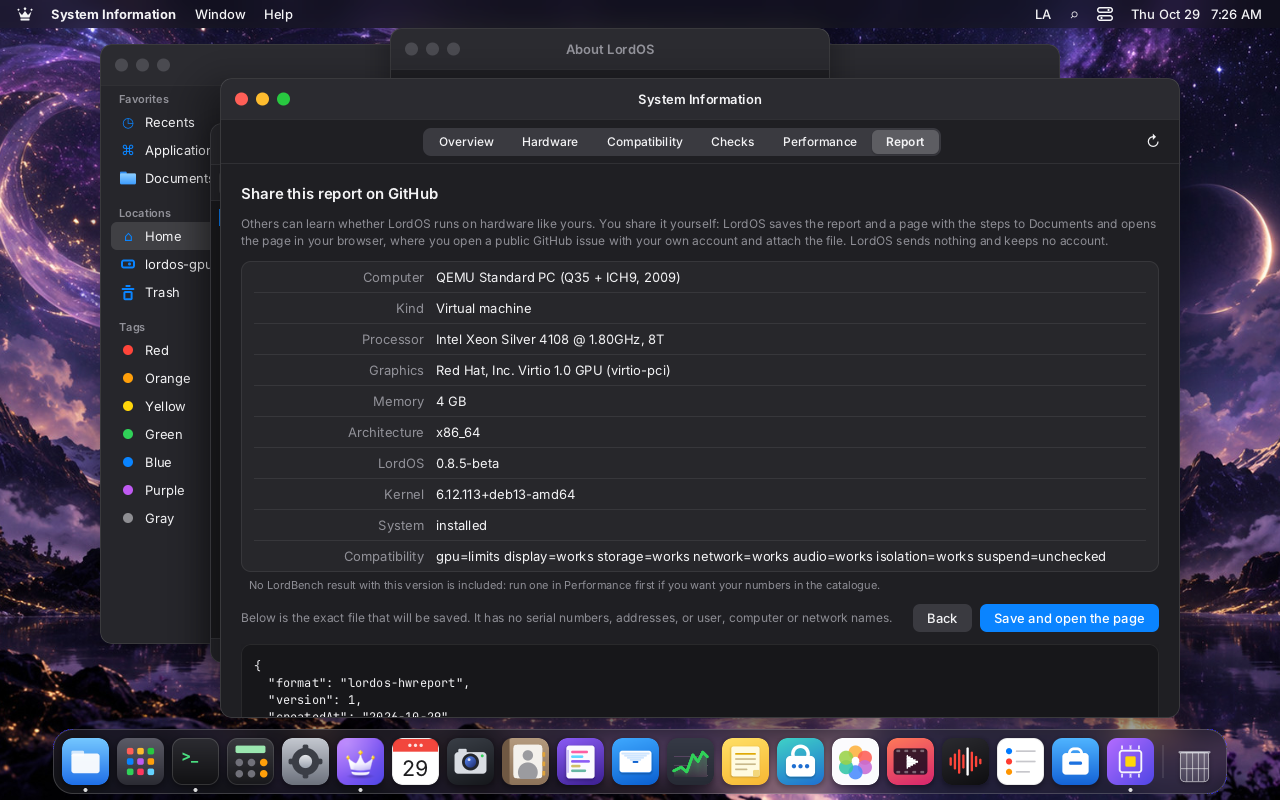
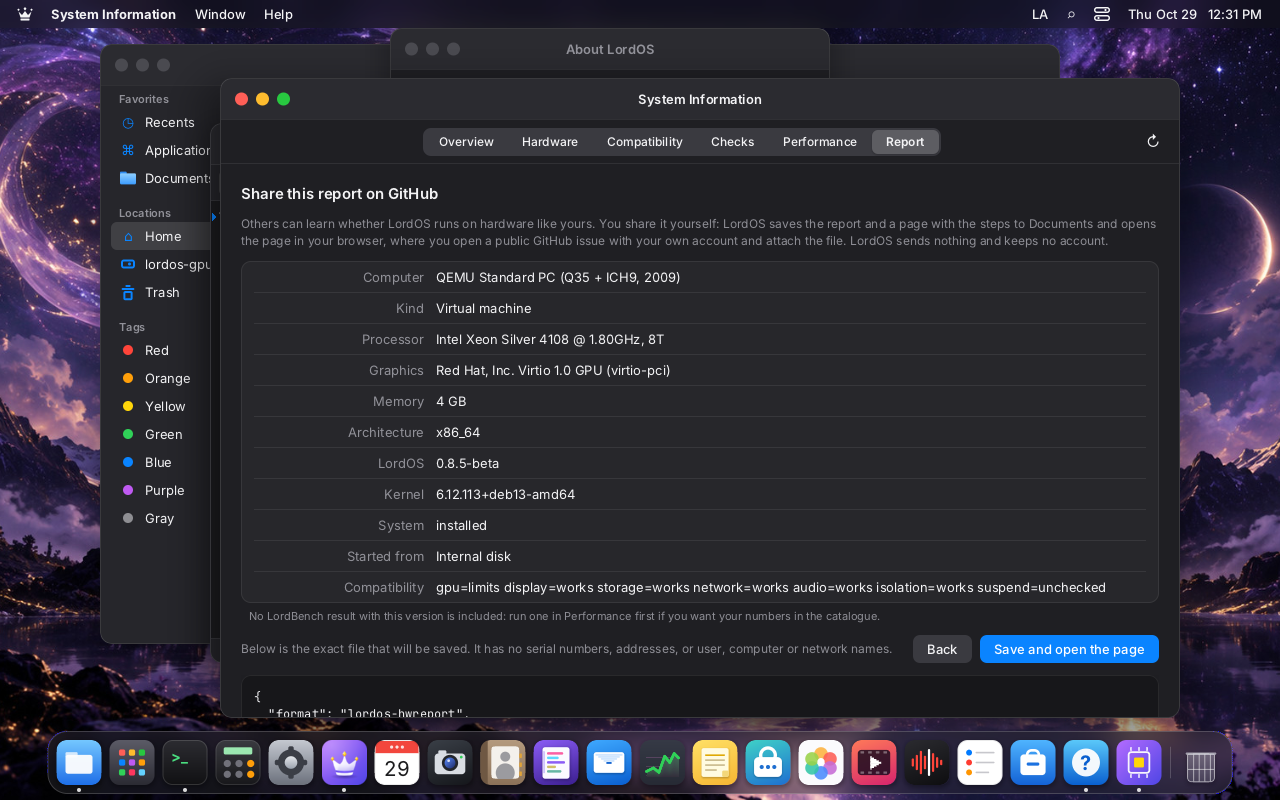
Docs for the 0.8.7 boot medium, the snapshot-update design and the real-session Share on GitHub check: BENCHMARK (Built so far: boot medium, how it is detected; Newer snapshots between releases: five options, a separate lordos-hwdata package in the signed APT repository recommended, not implemented 

Changed region(s): [[0.0312, 0.8438, 0.9688, 1.0], [0.1875, 0.6875, 0.9062, 0.8438], [0.8125, 0.0, 0.9688, 0.0312]]

diff --git a/docs/BENCHMARK.md b/docs/BENCHMARK.md
@@ -618,16 +618,33 @@ reference.
   catalogue read the same file. The validator is our own subset of JSON Schema, `tools/hwreport/jsonschema.mjs`,
   with no dependency (the repository has no JSON Schema validator); a keyword it doesn't implement makes it throw.
 - **Live session flag**: the collector now records `software.live` (live-boot's `/run/live`, as LordBench already
-  did), and a shared report is `live: true` if either says so. The boot medium is not collected yet, so it is not
-  in the report; the rest of "From the live USB" is not built.
+  did), and a shared report is `live: true` if either says so.
+- **Boot medium** (2026-10-29): the collector also records what the system started from, as a class only
+  (`software.bootMedium`: `internal`, `usb`, `sd`, `emmc`, `optical`, `network`, or `""` when it can't tell), a USB
+  medium's link speed (`bootLinkMbps`, from the USB device's `speed`) and whether a live session was copied to memory
+  (`bootToRam`, the `toram` boot option). How (`collect_boot` in `sysreport/sysreport.c`, no root, world-readable
+  files only): the mount under `/` (installed) or live-boot's `/run/live/medium` (live) is found in
+  `/proc/self/mountinfo` (the last line for that mount point); an NFS or SMB file system is `network`; otherwise its
+  `major:minor` is followed through `/sys/dev/block` (a link that climbs out of `/sys/devices` is refused), from a
+  partition to its disk, and through device mapper or RAID `slaves` (LUKS, LVM; at most 4 layers); btrfs's anonymous
+  `0:N` device is replaced by the block device its source names. The disk's sysfs path decides: `sr*` is `optical`,
+  a path through a USB controller is `usb`, `nbd*` or an iSCSI session is `network`, an MMC card whose `type` is `SD`
+  or `MMC` is `sd` or `emmc` (unknown type: `""`, not a guess), loop and RAM disks are `""`, everything else
+  (SATA, NVMe, virtio, SCSI) is `internal`. A live session with no medium mounted that was fetched over the network
+  (`fetch=`, `netboot=`) is `network`. The kernel command line is only searched for those whole words, never kept.
+  Nothing else leaves the function: no device name, model, serial, mount point or path. The schema lists only the
+  classes, the speed (1–100,000) and the flag; the share preview, the issue summary (`boot: usb, 5000 Mbps`), the
+  workflow's comment and a `boot:<class>` label show it; a copy to memory on an installed system, or a link speed on
+  anything but USB, is flagged as implausible. System Information shows it in Software (*Started from*) and
+  `lordos-sysreport report` in the Overview (*Started*). VM 116 (ext4 on a SCSI disk) reports `internal`.
 - **Share on GitHub** (Report → *Share on GitHub…*, `apps/sysinfo/share.js`): a preview of the summary and of the
   exact JSON first, then on every click (nothing remembered) the app writes `lordos-hwreport-<date>.json` and
   `.html` to Documents (never over an existing file) and opens the page with `lord.apps.launchWith('', path)`. The
   page is self-contained (no scripts, a CSP of `default-src 'none'`, light and dark, right to left for RTL
   languages, every value escaped), says in plain words what is shared and what never is, shows the summary, the
   steps, and one link to GitHub's new-issue form with the `hardware-report` template, the title, the version and
-  the short summary in the URL (machine, kind, CPU, GPU, memory, architecture, versions, live, LordBench mode and
-  the Compatibility states; at most 600 characters). The full JSON is attached by the user. LordOS sends nothing
+  the short summary in the URL (machine, kind, CPU, GPU, memory, architecture, versions, live, the boot medium's class, LordBench mode
+  and the Compatibility states; at most 600 characters). The full JSON is attached by the user. LordOS sends nothing
   and holds no token.
 - **The issue form and its workflow**: `.github/ISSUE_TEMPLATE/hardware-report.yml` (label `hardware-report`, the
   `lordos` and `summary` fields the link fills, the file box, two confirmations) and
@@ -643,7 +660,7 @@ reference.
   positive, versions, architecture, live or thread counts that disagree, a future date, memory out of range);
   then comments once (updated on every edit) with report values only inside code spans, and labels the issue from
   fixed lists only: `report:valid|check|invalid|missing`, `kind:vm|board|laptop|server|desktop`,
-  `gpu:<vendor>`, `cpu:<vendor>`, `live` or `installed`. Permissions: `contents: read` (to check out the script
+  `gpu:<vendor>`, `cpu:<vendor>`, `live` or `installed`, and `boot:<class>` when the boot medium is known. Permissions: `contents: read` (to check out the script
   and the schema, sparse) and `issues: write`; the checkout action is pinned by commit, without persisted
   credentials. Workflows for `issues` events run from the default branch, so it takes effect when this is merged.
 - **The catalogue**: `tools/hwreport/catalog.mjs` reads the accepted reports in `web/content/hardware/reports/`
@@ -662,7 +679,8 @@ reference.
   the release key (Ed25519, the same format as `code-manifest.sig`; the key never leaves it). It ships
   in the `lordos` package (`tools/iso/mkdeb.sh`; a release build refuses an unsigned one) and so updates through the
   signed APT repository. **Deviation from the design above:** it is not downloaded on its own with the package
-  engine's checks; that remains possible later without changing the format or the verification.
+  engine's checks; that remains possible later without changing the format or the verification (see "Newer
+  snapshots between releases" below: a separate `lordos-hwdata` package is the recommendation).
   `lord.sysinfo.community()` (`ui/js_hw.c`, no arguments, no path from JS) reads the two files from
   `<assets>/hwreport/` without following links (`sysreport/hwsnap.c`), verifies the signature with the key the
   build trusts before parsing anything, checks the structure (format, version, at most 1 MB and 20,000 entries,
@@ -671,31 +689,102 @@ reference.
   what the snapshot says about this machine's devices with the same LordOS version (x.y.z), marked *Community*, or
   as a reference machine when only those reported it, and a footer with the snapshot's date and count, or why
   there is no community data.
-- **Tests**: `server/tests/hwreport_test.mjs` (125 checks: the schema with good reports and 22 bad ones, what the
+- **Tests**: `server/tests/hwreport_test.mjs` (138 checks: the schema with good reports and 22 bad ones, what the
   built report leaves out of a report full of identifying values, the summary and the link, the page's escaping
   and direction, attachment links, the download's limits with a fake fetch, parsing limits, the privacy scan,
   plausibility, labels, the comment's escaping, the catalogue, the snapshot being the one the reports give, and the
   community matching), in `run_suites.sh`; `build/hwsnap-test` (43 checks: signature before parsing, another key,
   one byte changed, malformed signatures, 19 malformed snapshots, limits, links refused, and the snapshot the
   builder wrote signed with a test key passing the C checks), in `make test`; `build/sysreport-test` checks the
-  live flag.
+  live flag and the boot medium on 23 fake trees (NVMe, USB 3 and USB 2 behind a hub, a copy to memory with and
+  without the medium, `notoram`, SD, eMMC, an unknown MMC card, LUKS on NVMe, LVM on LUKS on USB, a device mapper
+  loop, btrfs, stacked mounts, a DVD, NFS, iSCSI, NBD, a live system fetched over the network, virtio, a loop
+  device, a link that climbs out of `/sys`, a USB speed that isn't a number), each also checked for device names,
+  serials, the mount point and the command line in the JSON and the Markdown.
 - **Checked on VM 116** in an isolated headless session, with `lord-server` built for a throwaway test key
   (`CODE_PUBKEY`) and the snapshot signed by `sign-hwsnapshot.sh` with that key: the Compatibility panel shows the
   reference machine's data for the virtio GPU, the network and the sound card; the same snapshot with one count
   changed is refused ("the signature didn't verify") and nothing is shown. Share on GitHub wrote both files; the
   JSON passed `validate.mjs` (`report:valid`, `kind:vm`, `gpu:virtual`, `cpu:intel`, `installed`). The headless
   session has no browser, so it said where the page is instead of opening it.
+- **Opening the page, checked on VM 116** (2026-10-29, isolated headless session of this branch, Chromium 156 from
+  Debian installed on the VM): Share on GitHub wrote `lordos-hwreport-2026-10-29.json` and `.html` to Documents and
+  `lord.apps.launchWith('', path)` opened the page in the browser, inside the session, from the user's default for
+  `text/html`; the page showed the summary (with *Started from: Internal disk*), the steps and the link to the
+  `hardware-report` form, and the JSON passed `validate.mjs` (`report:valid`, `kind:vm`, `gpu:virtual`, `cpu:intel`,
+  `installed`, `boot:internal`). What it took on that VM, and what it says about real systems:
+  - **A fresh account with no default browser:** `defaults_lookup` (`hw/defaults.c`) only reads `mimeapps.list` and
+    `defaults.list` files, and this VM has none for `text/html` (Debian's Chromium doesn't write one, and without
+    `desktop-file-utils` there is no `mimeinfo.cache`), so `launchWith('', …)` refused and the app said where the
+    page was ("Open … with your browser to go on") — the fallback works. Choosing the browser in Settings → Default
+    Apps (which writes `~/.config/mimeapps.list`) is what makes it open. Falling back to an installed app that
+    declares the type, as the XDG spec allows, is left for the maintainer to decide (it changes Default Apps for
+    every type, not only this one).
+  - **Chromium needs X11 here:** Debian's Chromium starts on X11 unless told otherwise, and VM 116 has no `xwayland`
+    package, so with the stock `chromium.desktop` it exited ("Missing X server"). A system with `xwayland` (the
+    Xwayland launcher gives launched apps `DISPLAY`) runs it as is. On the VM the test used a user entry in
+    `~/.local/share/applications` with `--ozone-platform=wayland`, chosen as the default for `text/html`.
+  - **The test session's environment:** the isolated session must not set `LORDOS_SESSIOND` at all: with it set (even
+    empty) the launcher, which can't place the app in its own scope outside a real session, refuses to start it
+    (fail closed, as designed: `apps.log` said "could not place the app in its own scope: not launched").
+
+![The page opened in the browser by Share on GitHub](hwreport-browser.png)
 
 ![Compatibility with community data](hwreport-compat.png)
 
 ![Share on GitHub](hwreport-share.png)
 
-![The page that opens in the browser](hwreport-page.png)
+![The whole page (rendered outside the session, before the boot medium row)](hwreport-page.png)
+
+### Newer snapshots between releases (design, for the maintainer's approval)
+
+Today the signed snapshot ships inside the `lordos` package, so the Compatibility panel only learns about new
+reports when LordOS itself is released. The goal is a newer snapshot between releases **without giving
+`lord-server` or any helper a new network power** (AGENTS.md: no generic network, the Store's download child and
+`lord-tls` only fetch packages, `lord-fetch` only fetches blocklists). The options:
+
+| | How | New network code | Verdict |
+|---|---|---|---|
+| A | Keep it in `lordos` (today) | none | Updates only with a release |
+| B | **A separate small package, `lordos-hwdata`**, in the signed APT repository | none: the existing package engine | **Recommended** |
+| C | `lord-server` downloads `snapshot.json` from lordos.org through the Store's download child and `lord-tls` | a new kind of download in the package engine (a URL that is not a package, a new admin action or engine call) | Not recommended: a new network job to review for one file |
+| D | `lord-fetch` downloads it next to the blocklists | a second job for `lord-fetch`, which AGENTS.md forbids | Rejected |
+| E | The user downloads it from lordos.org/hardware and opens it in System Information | none (a file the user picks, verified with the same key) | Possible later as a complement for machines that never update; clumsy as the main path |
+
+**B, in detail.** `lordos-hwdata` is an `Architecture: all` package holding only `snapshot.json` and
+`snapshot.json.sig` at the same place `lord.sysinfo.community()` already reads (`<assets>/hwreport/`), with a version
+of its own (the snapshot's date, `YYYY.MM.DD`, plus `.N` for a second one on the same day). The `lordos` package
+stops shipping the two files and `Depends: lordos-hwdata`; no released `lordos` has ever shipped them (they are new
+in 0.8.7), so no `Replaces`/`Breaks` dance is needed. Between releases the maintainer runs
+`tools/release/sign-hwsnapshot.sh` (as now), builds the package (a short `tools/iso/mkdeb-hwdata.sh`) and adds it to
+the repository with `tools/release/apt-repo.sh build live <deb>` and `publish`, exactly like a `lordos` build. On
+every system the daily update check (`pkg-update`, `updates.autoCheck`) sees one available update and says so once,
+and Store → Updates → *Update all* (`pkg-upgrade`) installs it; `lord.sysinfo.community()` reads the files again on
+every call, so the panel shows the new data without restarting the session. Machines without internet get it from a
+`file:` copy of the repository, as any update.
+
+Why this is safe: nothing new runs or connects. The snapshot is checked twice: the repository's `InRelease` (the
+APT archive key, by our own package engine) and then the snapshot's own Ed25519 signature with the release key
+(`sysreport/hwsnap.c`, before any parsing), so a package from anywhere else still can't change what the panel
+shows. Rolling back to an older snapshot needs a downgrade, which the engine never does on its own. The cost:
+one more package in the repository and in the release steps (`RELEASING.md`), the ISO and the Raspberry Pi image
+builds installing it next to `lordos` (`tools/iso/build.sh`, `tools/rpi/build-img.sh`), and a rule for the format:
+while any supported `lordos` reads format 1, `lordos-hwdata` keeps writing format 1; a format 2 needs
+`Breaks: lordos (<< <first version that reads it>)`. An older `lordos` with a newer snapshot works, since entries
+are per LordOS version and it shows only its own.
+
+**Not implemented on this branch:** it changes the release steps on the maintainer's machine, adds a package name to
+the published repository and changes the ISO and Pi image builds, none of which can be tested end to end here
+(the Pi image is built on the Pi). Once approved, the work is: `mkdeb-hwdata.sh`, the `Depends` and the removal from
+`mkdeb.sh`, installing it in the two image builds, `RELEASING.md` and `UPDATES.md`, and a staging test on a VM
+(`apt-repo.sh build staging`): publish a newer `lordos-hwdata`, see the notification, update, see the panel change.
 
 Left for 0.8.7: creating the labels in the repository (the template's `hardware-report` label must exist for the
 form to apply it), the first real community reports, a captured Raspberry Pi 5 report to replace the documented
-one, the boot medium of a live session and the rest of "From the live USB", downloading a newer snapshot between
-releases, and opening the page on a real session with a browser.
+one, the rest of "From the live USB" (the boot menu entry, live references, the overlay's size), the separate
+`lordos-hwdata` package above once approved, and deciding whether Default Apps should fall back to an installed app
+that declares a type when the user chose none (so a fresh account's Share on GitHub opens the page without a visit
+to Settings).
 
 ## From the live USB, without installing
 
@@ -707,7 +796,8 @@ before installing.
 - **A boot menu entry**, *Check this computer*, starts the live session straight into System
   Information (0.8.5) and its Performance tab (0.8.6). The normal live session has it in the Dock.
 - **The report says it was live**: boot medium (USB, its link speed), the overlay in RAM, no
-  persistence. Live and installed results are kept apart in comparisons and in the catalogue.
+  persistence. (Built in 0.8.7: the live flag, the boot medium's class, a USB link speed and the copy to memory;
+  the overlay's size is not.) Live and installed results are kept apart in comparisons and in the catalogue.
 - **Different references where live changes the numbers**: idle memory is compared with the
   paper's live figure (465 MB) and the overlay's size is subtracted and shown; boot time includes
   reading from the stick and is reported, not judged.

diff --git a/CHANGELOG.md b/CHANGELOG.md
@@ -61,6 +61,50 @@ of the matching [GitHub release](https://github.com/lordbasex/LordOS/releases), 
     `make test` passing (23 suites, 0 failed); checked there in an isolated headless session with a test-key build
     (community rows shown, a tampered snapshot refused, both share files written and the JSON valid).
 
+- **The boot medium in the hardware report** (2026-10-29; `docs/BENCHMARK.md`, "Built so far" under 0.8.7):
+  - **Collector:** `collect_boot` in `server/src/sysreport/sysreport.c` records `software.bootMedium` (`internal`,
+    `usb`, `sd`, `emmc`, `optical`, `network`, or `""` when unknown), `bootLinkMbps` (a USB medium's link speed, from
+    the USB device's `speed`; `null` otherwise) and `bootToRam` (a live session started with `toram`). No root and
+    world-readable files only: the mount under `/` (or live-boot's `/run/live/medium` in a live session) from
+    `/proc/self/mountinfo`, NFS/SMB as `network`, otherwise its `major:minor` through `/sys/dev/block` (links that
+    leave `/sys/devices` refused), partition to disk, device mapper and RAID `slaves` (at most 4 layers), btrfs's
+    anonymous device through its source; then the disk's sysfs path: `sr*` optical, a USB controller in the path
+    `usb`, NBD or an iSCSI session `network`, an MMC card by its `type` (`SD`/`MMC`; unknown is `""`), loop and RAM
+    disks `""`, the rest `internal`. A live session fetched over the network (`fetch=`, `netboot=`) with no medium
+    mounted is `network`. The kernel command line is only searched for those words. Only the class and the speed
+    leave the collector: never a device name, model, serial, mount point or path. In `lord.sysinfo.report()`,
+    `lordos-sysreport report --json` and, as *Started*, in its Markdown Overview.
+  - **Report and workflow:** the schema (`apps/sysinfo/hwreport.schema.json`) lists only the classes, a speed of
+    1–100,000 and the flag; `share.js` adds a `boot` row to the issue summary (`usb, 5000 Mbps`, `toram`);
+    `tools/hwreport/lib.mjs` adds a `boot:<class>` label from the fixed list, a *started from* note in the comment,
+    and flags a copy to memory on an installed system or a link speed on anything but USB (`boot-mismatch`).
+  - **App:** System Information → Software → *Started from* and the share preview's row (internal disk, USB drive,
+    SD card, built-in flash memory, DVD or CD, network; the speed; "copied to memory"); the page's "What is shared"
+    says the kind of drive is shared, never its name. en, es and pt.
+  - **Tests:** `build/sysreport-test` builds 23 fake trees (NVMe, USB 3, USB 2 behind a hub, `toram` with and without
+    the medium, `notoram`, SD, eMMC, an unknown MMC card, LUKS on NVMe, LVM on LUKS on USB, a device mapper loop,
+    btrfs, stacked mounts, DVD, NFS, iSCSI, NBD, a fetched live system, virtio, a loop device, an escaping link, a
+    bad USB speed) and checks the class, the speed, the flag, the Markdown row, and that no device name, serial,
+    mount point or command line reaches the JSON or the Markdown; `server/tests/hwreport_test.mjs` grows to 138
+    checks (the schema refuses a device name, a mount point, a text or zero speed and a text flag; the built report
+    keeps the class and drops an extra device field; the summary row; the label; the plausibility flags; the comment).
+    VM 116 reports `internal` (ext4 on its SCSI disk).
+- **Share on GitHub checked in a real session with a browser** (2026-10-29, VM 116, isolated headless session of the
+  branch, Debian's Chromium 156): the report and the page landed in Documents and `lord.apps.launchWith('', path)`
+  opened the page in the browser inside the session (`docs/hwreport-browser.png`); the JSON passed `validate.mjs`
+  (`report:valid … installed, boot:internal`) and the link carried only the title, version and summary. Found on the
+  way (documented in `docs/BENCHMARK.md`, nothing changed in the code): a fresh account has no `text/html` default
+  unless one is chosen in Settings → Default Apps (`defaults_lookup` reads only `mimeapps.list`/`defaults.list`;
+  the app then says where the page is), Debian's Chromium needs `xwayland` (absent on VM 116) unless started with
+  `--ozone-platform=wayland`, and an isolated test session must leave `LORDOS_SESSIOND` unset or the launcher fails
+  closed.
+- **Newer hardware snapshots between releases: design** (2026-10-29; `docs/BENCHMARK.md`, "Newer snapshots between
+  releases"): five options compared; the recommendation is a separate `Architecture: all` package, `lordos-hwdata`,
+  in the signed APT repository, which `lordos` depends on, updated between releases through the existing daily check
+  and Store → Updates, with the snapshot's own Ed25519 signature still checked in C, so no component gets a new
+  network power. Not implemented: it changes the release steps, the published repository and the ISO and Pi image
+  builds, and waits for the maintainer's approval.
+
 ### Release
 
 - **Docs** (2026-10-28): `FANS.md` no longer says the Cooling fans turn in this build (the `transform` key the

diff --git a/docs/ROADMAP.md b/docs/ROADMAP.md
@@ -771,8 +771,14 @@ desktop fell to 24 fps under an all-core load:
   reads as a signed snapshot. In development on the branch `v087-hwreports`:
   - [x] The report format: a versioned JSON Schema that is an allow-list (`apps/sysinfo/hwreport.schema.json`),
     with the live session flag.
+  - [x] The boot medium as a class (internal, USB, SD, eMMC, optical, network), a USB medium's link speed and the
+    copy to memory of a live session, from world-readable kernel facts without root (`collect_boot` in
+    `sysreport/sysreport.c`; no device names), in the report, the schema, the summary, the workflow's labels and
+    plausibility checks.
   - [x] Share on GitHub in System Information: the report and a self-contained page in Documents, opened with
     `lord.apps.launchWith('', path)`; the issue link carries only the short summary.
+    Checked on VM 116 with a browser (2026-10-29): the page opens from the user's default for `text/html`; with no
+    default chosen the app says where the page is (a fallback for that is the maintainer's decision).
   - [x] The `hardware-report` issue form and its workflow: safe download, schema, privacy and plausibility checks,
     labels from fixed lists, one comment (`tools/hwreport/validate.mjs`).
   - [x] The catalogue: lordos.org/hardware (en, es, pt; built, not published) and the snapshot, from the accepted
@@ -780,8 +786,10 @@ desktop fell to 24 fps under an all-core load:
   - [x] The signed snapshot (release key, signed on the maintainer's machine) shipped in the `lordos` package and
     verified in C before the Compatibility panel shows it as community data (`lord.sysinfo.community()`).
   - [ ] The repository's labels, the first community reports and a captured Raspberry Pi 5 report.
-  - [ ] Downloading a newer snapshot between releases (it updates with the package for now).
-  - [ ] The rest of "From the live USB": the boot medium, the boot menu entry, live references.
+  - [ ] A newer snapshot between releases: designed (`BENCHMARK.md`, "Newer snapshots between releases"; a separate
+    `lordos-hwdata` package in the signed APT repository, no new network code), waiting for the maintainer's
+    approval; it updates with the `lordos` package for now.
+  - [ ] The rest of "From the live USB": the boot menu entry, live references, the overlay's size.
 
 - [x] **Remote desktop over WebRTC (0.8.4)** — see `REMOTE.md`, "Video (WebRTC)". Until 0.8.3 the
   browser got PNG/JPEG tiles over a TLS WebSocket, and a connection switched the session to CPU
